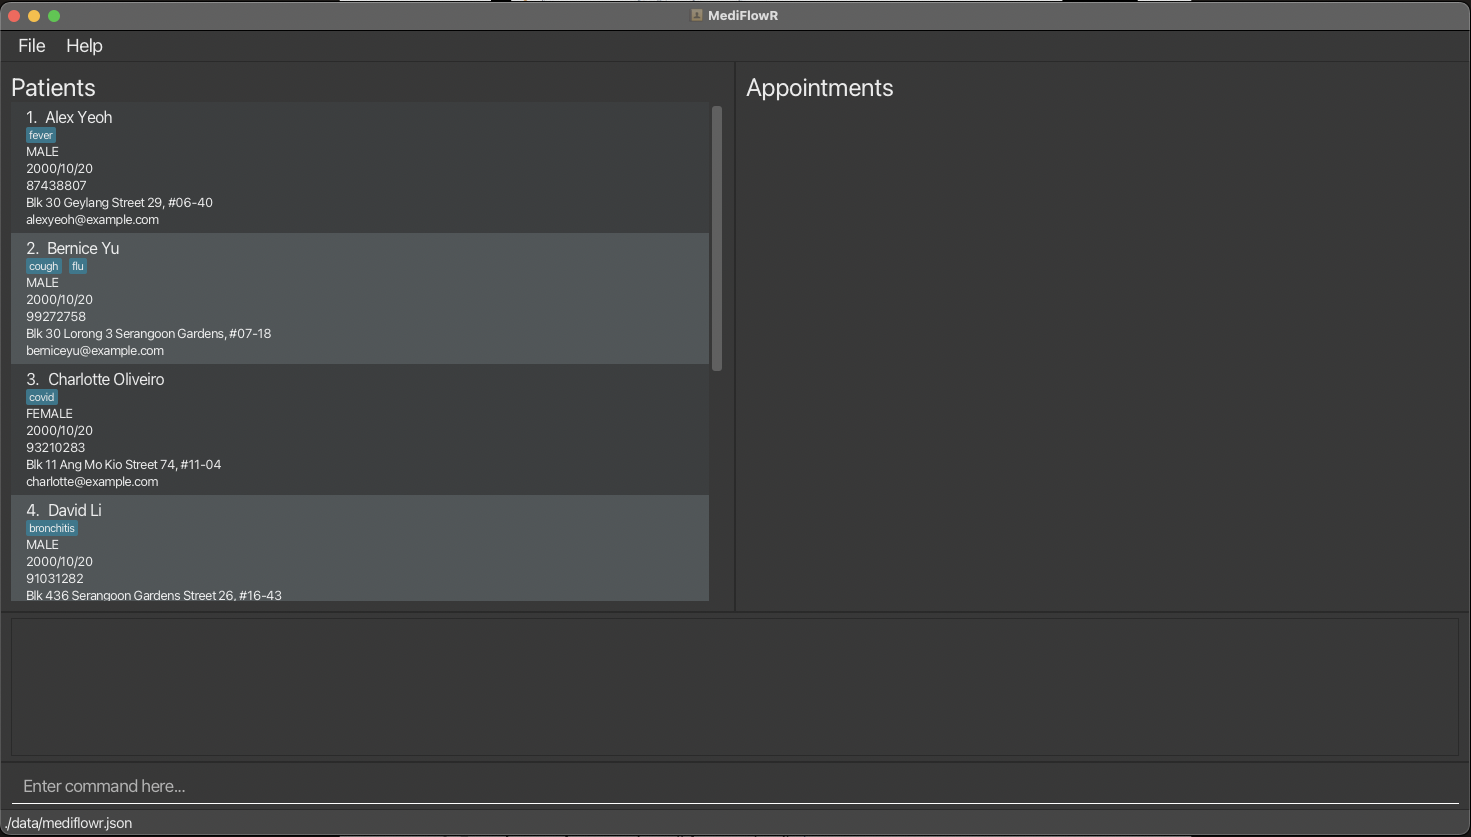
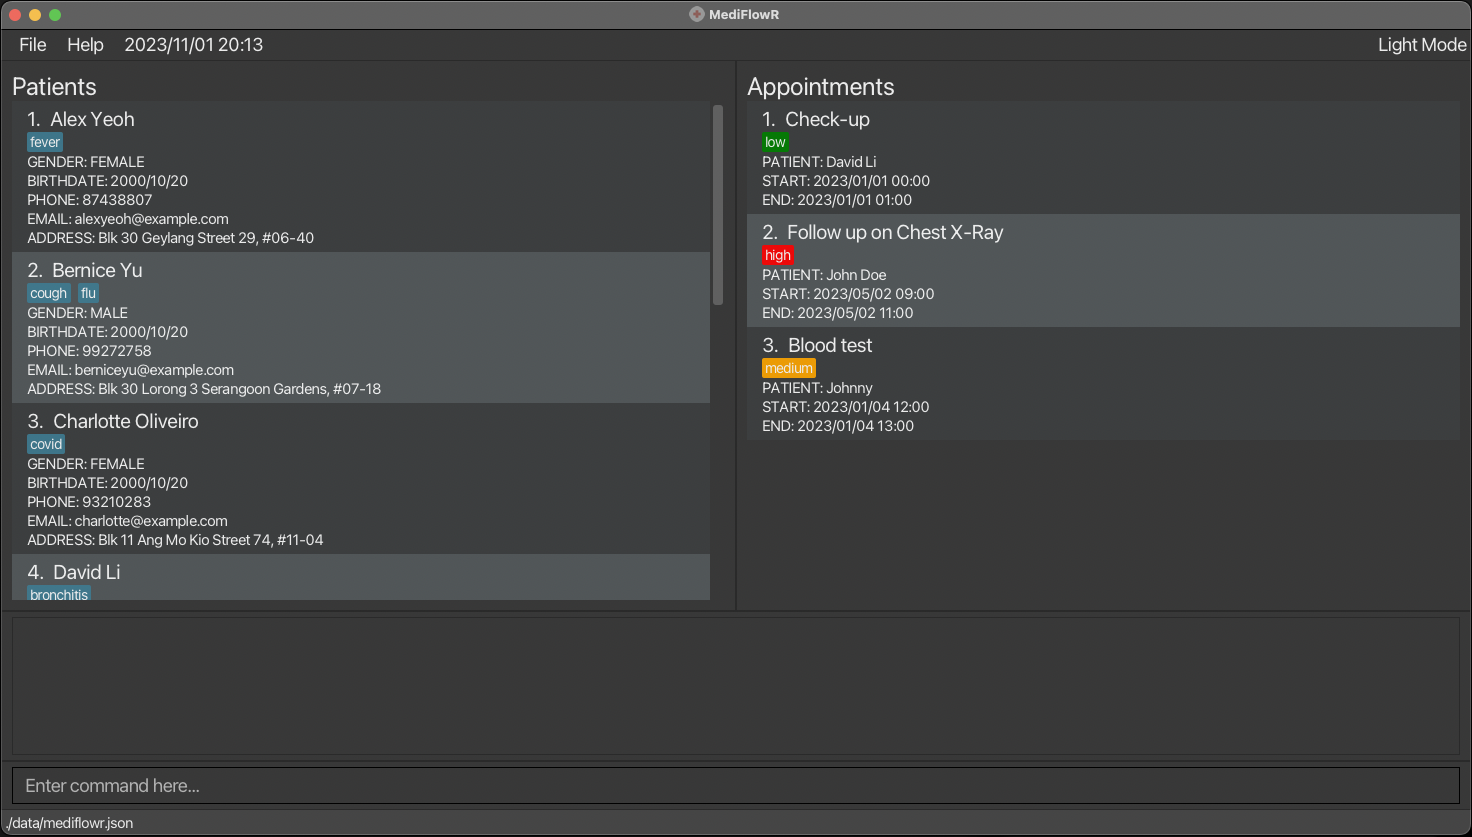
Update readme and ui image

diff --git a/README.md b/README.md
@@ -1,13 +1,39 @@
 [![CI Status](https://github.com/AY2324S1-CS2103T-T08-4/tp/workflows/Java%20CI/badge.svg)](https://github.com/AY2324S1-CS2103T-T08-4/tp/actions)
 ![Ui](docs/images/Ui.png)
 
-* This is a sample project for Software Engineering (SE) students.<br>
-  Example usages:
-  * as a starting point of a course project (as opposed to writing everything from scratch)
-  * as a case study
-* The project simulates an ongoing software project for a desktop application (called _MediFlowR_) used for managing contact details.
-  * It is **written in OOP fashion**. It provides a **reasonably well-written** code base **bigger** (around 6 KLoC) than what students usually write in beginner-level SE modules, without being overwhelmingly big.
-  * It comes with a **reasonable level of user and developer documentation**.
-* It is named `MediFlowR` because it tracks patient records for medical professionals.
-* For the detailed documentation of this project, see the **[MediFlowR Product Website](https://ay2324s1-cs2103t-t08-4.github.io/tp/)**.
+## Welcome to MediFlowR
+
+Too many patients to handle? Mixing up your patient appointments?
+
+Don't worry, we got you! Taking control of your patient records management is now made easier with **MediFlowR**, and
+this user guide will help you master the application in no time!
+
+### About MediFlowR:
+
+MediFlowR is a desktop application built for medical practitioners to manage their day-to-day operations. It is a
+user-friendly and efficient patient records management system designed to help you streamline your patient management
+processes. In the fast-paced world of healthcare, we understand the importance of keeping patient information organised
+and appointments on track. MediFlowR is your solution!
+
+### Key Features:
+To simplify your administrative tasks, our application provides a range of features, but not limited to:
+
+1. **Patient Information Management:** Easily store, access and edit patient data, making it simple to track patient's vital information and history.
+2. **Appointment Scheduling:** Efficiently manage patient appointments and eliminate the risk of scheduling conflicting appointments.
+3. **Integration:** Seamlessly integrate patient records across multiple departments by allowing users to update patient information, allowing for the doctor to follow up and ensuring continuity of care.
+
+Here at MediFlowR, we believe in keeping things simple and efficient.
+
+_**Simple:**_
+Navigating MediFlowR is a breeze. Our intuitive user interface just displays essential information allowing
+you to quickly access the information you need. Moreover, this user guide together with the in-application guidance
+minimises the learning curve for your administrative staff.
+
+_**Efficient:**_
+On top of these functionalities, we believe that patient management must be efficient.
+Therefore, MediFlowR is optimised for keyboard users. By simply typing, MediFlowR can get your
+hospital management tasks done faster than the other apps in the industry.
+
+* For the detailed documentation of this project, see the [MediFlowR Product Website](https://ay2324s1-cs2103t-t08-4.github.io/tp/).
+
 * This project is based on the AddressBook-Level3 project created by the [SE-EDU initiative](https://se-education.org).
